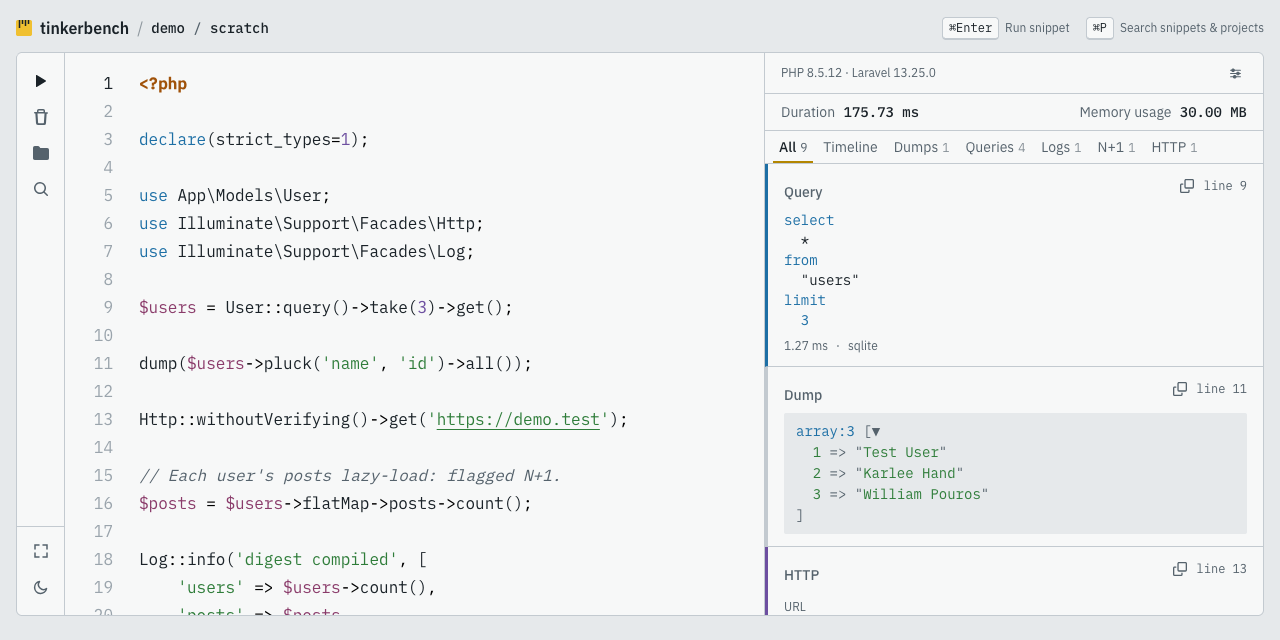
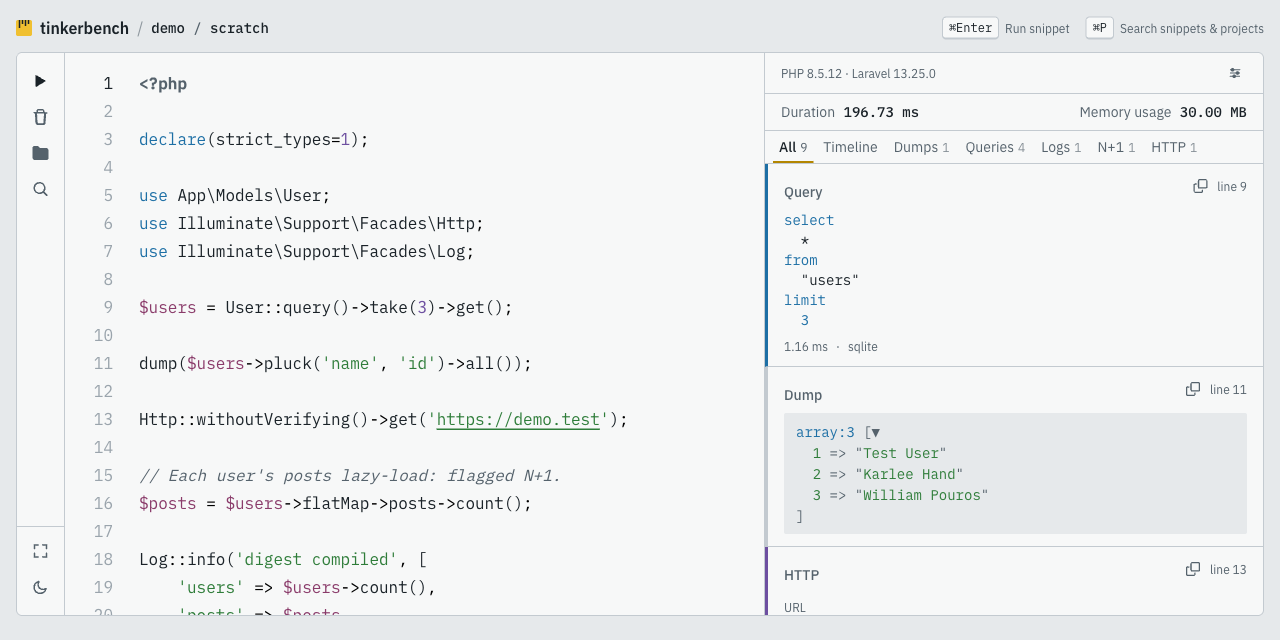
Set UI prose and error messages in the sans font with monospace kept for code and keys, accent the borders of focused palette inputs and move the global focus ring into the base layer so they can override it, keep acronym facets like N+1 uppercase in empty feed messages, mute the Monaco metatag colo

diff --git a/resources/js/components/CommandPalette.vue b/resources/js/components/CommandPalette.vue
@@ -632,7 +632,7 @@ async function confirmDelete(name: string): Promise<void> {
                             :aria-label="inputLabel"
                             :placeholder="placeholder"
                             :disabled="createForm.processing"
-                            class="w-full rounded border border-line bg-transparent py-1.5 pr-2.5 pl-8 font-mono text-sm text-fg placeholder:text-muted focus:outline-none"
+                            class="w-full rounded border border-line bg-transparent py-1.5 pr-2.5 pl-8 font-mono text-sm text-fg placeholder:font-sans placeholder:text-muted focus:border-accent focus:outline-none"
                             @change="createForm.validate('name')"
                             @keydown.down.prevent="moveHighlight(1)"
                             @keydown.up.prevent="moveHighlight(-1)"
@@ -645,14 +645,11 @@ async function confirmDelete(name: string): Promise<void> {
                             visibleSnippetNames.length === 0 &&
                             createForm.invalid('name')
                         "
-                        class="mt-1 font-mono text-xs text-danger"
+                        class="mt-1 text-xs text-danger"
                     >
                         {{ createForm.errors.name }}
                     </p>
-                    <p
-                        v-if="createError"
-                        class="mt-1 font-mono text-xs text-danger"
-                    >
+                    <p v-if="createError" class="mt-1 text-xs text-danger">
                         {{ createError }}
                     </p>
                 </form>
@@ -660,13 +657,13 @@ async function confirmDelete(name: string): Promise<void> {
                 <template v-if="errorMessage || projectsErrorMessage">
                     <p
                         v-if="errorMessage"
-                        class="px-3 py-2 font-mono text-xs text-danger"
+                        class="px-3 py-2 text-xs text-danger"
                     >
                         {{ errorMessage }}
                     </p>
                     <p
                         v-if="projectsErrorMessage"
-                        class="px-3 py-2 font-mono text-xs text-danger"
+                        class="px-3 py-2 text-xs text-danger"
                     >
                         {{ projectsErrorMessage }}
                     </p>
@@ -674,17 +671,17 @@ async function confirmDelete(name: string): Promise<void> {
                 <template v-else-if="activeEntries.length === 0">
                     <p
                         v-if="scope === 'projects'"
-                        class="px-3 py-2 font-mono text-xs text-muted"
+                        class="px-3 py-2 text-xs text-muted"
                     >
                         No projects found.
                     </p>
                     <p
                         v-else-if="filterText === '' && names.length === 0"
-                        class="px-3 py-2 font-mono text-xs text-muted"
+                        class="px-3 py-2 text-xs text-muted"
                     >
                         No snippets found.
                     </p>
-                    <p v-else class="px-3 py-2 font-mono text-xs text-muted">
+                    <p v-else class="px-3 py-2 text-xs text-muted">
                         No snippet named "{{
                             snippetNameFromInput(createForm.name).trim()
                         }}" yet. Press Enter to create it.
@@ -725,7 +722,7 @@ async function confirmDelete(name: string): Promise<void> {
                                 type="text"
                                 :aria-label="`Rename ${name}`"
                                 :disabled="renameSubmitting"
-                                class="w-full rounded border border-line bg-transparent px-2 py-0.5 font-mono text-sm text-fg focus:outline-none"
+                                class="w-full rounded border border-line bg-transparent px-2 py-0.5 font-mono text-sm text-fg focus:border-accent focus:outline-none"
                                 @keydown.enter.prevent="confirmRename(name)"
                                 @keydown.escape="cancelRename"
                                 @blur="cancelRename"
@@ -734,7 +731,7 @@ async function confirmDelete(name: string): Promise<void> {
                                 v-else-if="deleting === name"
                                 class="flex items-center justify-between gap-2"
                             >
-                                <span class="text-muted"
+                                <span class="font-sans text-muted"
                                     >Delete '{{ name }}'?</span
                                 >
                                 <span class="flex shrink-0 items-center gap-2">
@@ -830,13 +827,13 @@ async function confirmDelete(name: string): Promise<void> {
                             </div>
                             <p
                                 v-if="renaming === name && renameError"
-                                class="font-mono text-xs text-danger"
+                                class="font-sans text-xs text-danger"
                             >
                                 {{ renameError }}
                             </p>
                             <p
                                 v-if="deleting === name && deleteError"
-                                class="font-mono text-xs text-danger"
+                                class="font-sans text-xs text-danger"
                             >
                                 {{ deleteError }}
                             </p>
@@ -898,11 +895,9 @@ async function confirmDelete(name: string): Promise<void> {
                     </template>
                 </ul>
 
-                <p
-                    class="border-t border-line px-3 py-1.5 font-mono text-xs text-muted"
-                >
-                    Type <kbd class="text-fg">#</kbd> for snippets,
-                    <kbd class="text-fg">/</kbd> for projects.
+                <p class="border-t border-line px-3 py-1.5 text-xs text-muted">
+                    Type <kbd class="font-mono text-fg">#</kbd> for snippets,
+                    <kbd class="font-mono text-fg">/</kbd> for projects.
                 </p>
             </div>
         </div>

diff --git a/resources/css/app.css b/resources/css/app.css
@@ -59,19 +59,22 @@
 
 /* Keyboard focus needs a consistent, high-contrast ring: the app styles hover on every control
    but defines no focus state, so keyboard users would otherwise fall back to the inconsistent
-   UA outline. Scoped to :focus-visible so pointer clicks stay ring-free. */
-:where(
-    a,
-    button,
-    input,
-    select,
-    textarea,
-    [role='tab'],
-    [tabindex]
-):focus-visible {
-    outline: 2px solid var(--accent);
-    outline-offset: 2px;
-    border-radius: 2px;
+   UA outline. Scoped to :focus-visible so pointer clicks stay ring-free. In the base layer so a
+   control with its own focus style (focus:outline-none plus a border) can replace the ring. */
+@layer base {
+    :where(
+        a,
+        button,
+        input,
+        select,
+        textarea,
+        [role='tab'],
+        [tabindex]
+    ):focus-visible {
+        outline: 2px solid var(--accent);
+        outline-offset: 2px;
+        border-radius: 2px;
+    }
 }
 
 /* The one moving moment: timeline bars are drawn out along the scale, like a reading being taken.

diff --git a/resources/js/components/OutputFeed.vue b/resources/js/components/OutputFeed.vue
@@ -34,7 +34,16 @@ const rows = computed(() => {
 const emptyLabel = computed(() => {
     const match = FACET_KINDS.find((kind) => kind.kind === props.filter);
 
-    return match ? `No ${match.facet.toLowerCase()} on this run` : '';
+    if (!match) {
+        return '';
+    }
+
+    // Acronym facets (N+1, HTTP) keep their case; lowercasing them would read as a typo.
+    const noun = /[a-z]/.test(match.facet)
+        ? match.facet.toLowerCase()
+        : match.facet;
+
+    return `No ${noun} on this run`;
 });
 
 watch(
@@ -54,7 +63,7 @@ watch(
     <div ref="feedElement" class="flex flex-col">
         <p
             v-if="rows.length === 0 && filter !== 'all'"
-            class="px-4 py-8 text-center font-mono text-xs text-muted"
+            class="px-4 py-8 text-center text-xs text-muted"
         >
             {{ emptyLabel }}
         </p>

diff --git a/resources/js/pages/Snippets/OpenSnippet.vue b/resources/js/pages/Snippets/OpenSnippet.vue
@@ -708,14 +708,14 @@ function toggleMaximize(): void {
         <p
             v-if="errorMessage"
             role="alert"
-            class="fixed right-4 bottom-4 rounded-md border border-danger/40 bg-surface px-4 py-3 font-mono text-sm text-danger shadow-2xl"
+            class="fixed right-4 bottom-4 rounded-md border border-danger/40 bg-surface px-4 py-3 text-sm text-danger shadow-2xl"
         >
             {{ errorMessage }}
         </p>
         <p
             v-if="saveError"
             role="alert"
-            class="fixed top-4 right-4 rounded-md border border-danger/40 bg-surface px-4 py-3 font-mono text-sm text-danger shadow-2xl"
+            class="fixed top-4 right-4 rounded-md border border-danger/40 bg-surface px-4 py-3 text-sm text-danger shadow-2xl"
         >
             {{ saveError }}
         </p>

diff --git a/resources/js/components/MonacoEditor.vue b/resources/js/components/MonacoEditor.vue
@@ -71,7 +71,7 @@ onMounted(() => {
             { token: 'string', foreground: '86D094' },
             { token: 'number', foreground: 'B49AE0' },
             { token: 'variable', foreground: 'D99AC0' },
-            { token: 'metatag', foreground: 'F0C030' },
+            { token: 'metatag', foreground: '8D99A3' },
         ],
         colors: {
             'editor.background': '#262B30',
@@ -100,7 +100,7 @@ onMounted(() => {
             { token: 'string', foreground: '2F7D3A' },
             { token: 'number', foreground: '6D4FA0' },
             { token: 'variable', foreground: '8A3B6A' },
-            { token: 'metatag', foreground: 'A0520A' },
+            { token: 'metatag', foreground: '55626C' },
         ],
         colors: {
             'editor.background': '#F7F8F8',

diff --git a/resources/js/components/Card.vue b/resources/js/components/Card.vue
@@ -113,7 +113,7 @@ onBeforeUnmount(() => clearTimeout(resetTimer));
                 <button
                     v-if="line !== null"
                     type="button"
-                    class="-mx-1.5 -my-0.5 rounded px-1.5 py-1 font-mono text-xs text-muted hover:bg-line/50 hover:text-fg"
+                    class="-mx-1.5 -my-0.5 rounded px-1.5 py-1 text-xs text-muted tabular-nums hover:bg-line/50 hover:text-fg"
                     @click="emit('navigate', line)"
                 >
                     line {{ line }}

diff --git a/resources/js/components/OutputFeed.test.ts b/resources/js/components/OutputFeed.test.ts
@@ -139,6 +139,12 @@ it('shows a facet-specific empty message when a filter matches nothing', () => {
     expect(container.textContent).toContain('No exceptions on this run');
 });
 
+it('keeps an acronym facet in its own case in the empty message', () => {
+    const { container } = renderFeed([dump(1)], { filter: 'n_plus_one' });
+
+    expect(container.textContent).toContain('No N+1 on this run');
+});
+
 it('shows no empty message on the all facet', () => {
     const { container } = renderFeed([], { filter: 'all' });
 

diff --git a/resources/js/components/feed/NPlusOneCard.vue b/resources/js/components/feed/NPlusOneCard.vue
@@ -27,8 +27,9 @@ const copyText = computed(
             <strong class="text-warn">{{ entry.model }}</strong
             >::{{ entry.relation }} lazy-loaded {{ entry.count }}×
         </p>
-        <p class="mt-1.5 text-xs text-muted">
-            Eager-load with <code>-&gt;with('{{ entry.relation }}')</code>
+        <p class="mt-1.5 font-sans text-xs text-muted">
+            Eager-load with
+            <code class="font-mono">-&gt;with('{{ entry.relation }}')</code>
         </p>
     </Card>
 </template>
